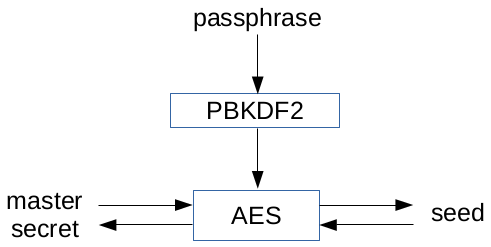
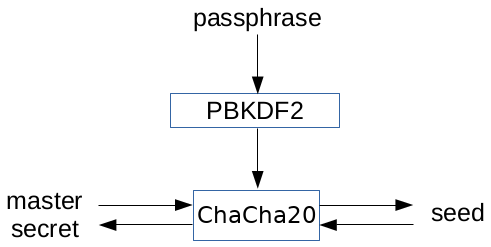
slip-0039: update passphrase image

Changed region(s): [[0.3971, 0.8219, 0.6415, 0.9069]]

diff --git a/slip-0039.md b/slip-0039.md
@@ -74,9 +74,9 @@ For the checksums we use the leftmost 16 bits of a SHA-256 hash digest of the re
 
 When enough M secrets are provided the master secret is reconstructed. To allow an additional protection of the final seed using a passphrase we suggest a following scenario. The passphrase is stretched using a key derivation function. Output is used as an encryption key passed to a symmetric-key cipher. The result of this encryption is the final seed to be used. If no passphrase is provided the passphrase is set to an empty string.
 
-![passphrase](slip-0039/passphrase.png)
-
 This mechanism is intentionally symmetric to allow reconstructing the master secret from the seed in case the passphrase is known.
+
+![passphrase](slip-0039/passphrase.png)
 
 We will use PBKDF2 (PRF = HMAC-SHA256, Salt = "SLIP0039", iterations = 100000, dkLen = 256 bits) as the key derivation function and ChaCha20 as the symmetric-key cipher.
 
@@ -96,6 +96,10 @@ Wordlist mandated by this SLIP is [available here](slip-0039/wordlist.txt). Seve
 * wordlist contains only common English words
 * no word is shorter than 4 letters and longer than 8 letters
 * all words have unique 4-letter prefix
+
+## Test Vectors
+
+TBD
 
 ## References
 
